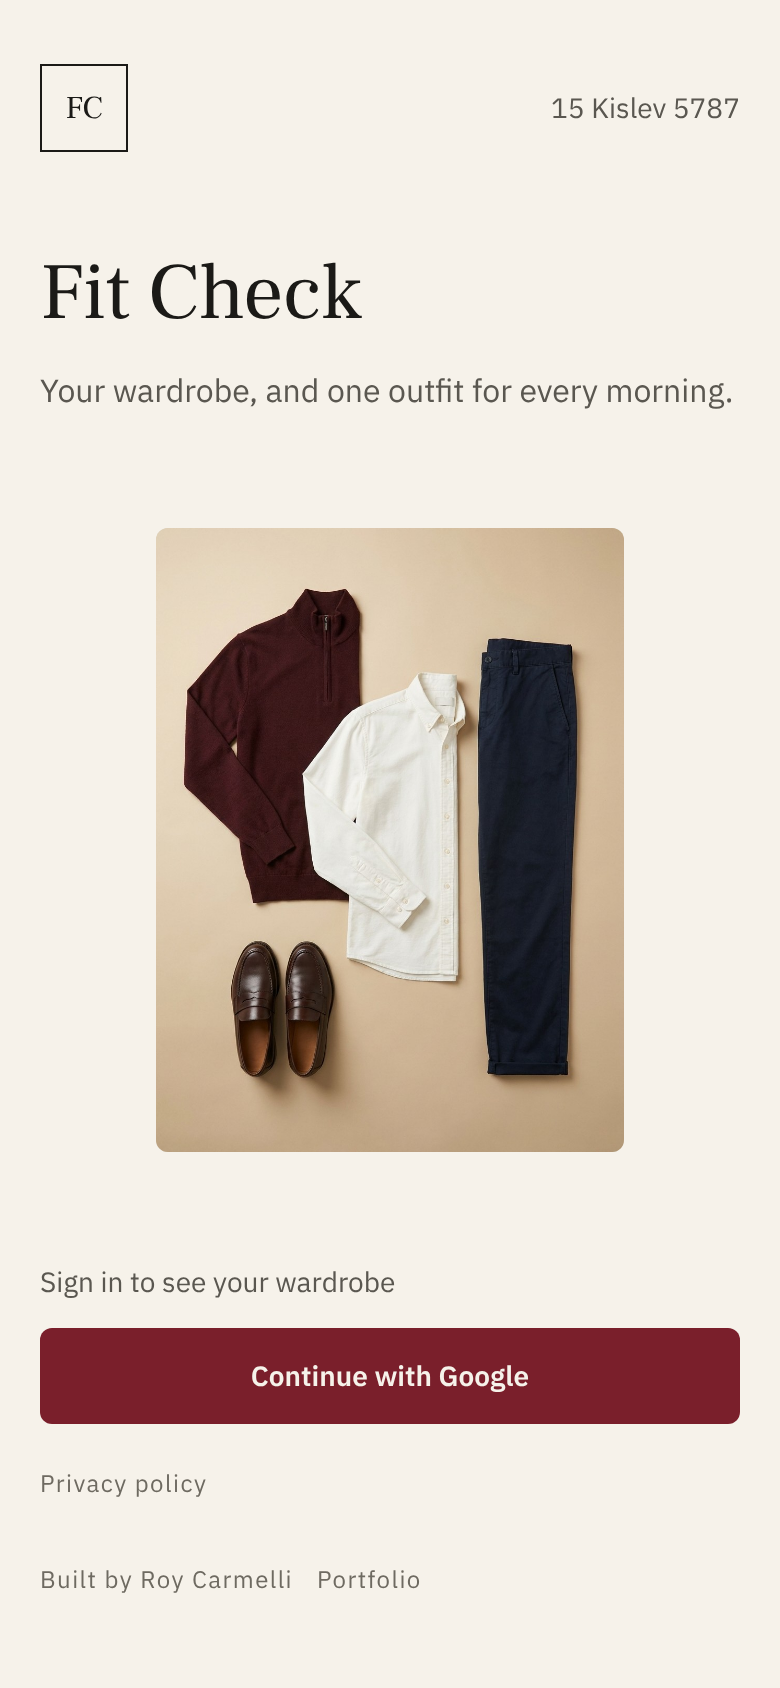
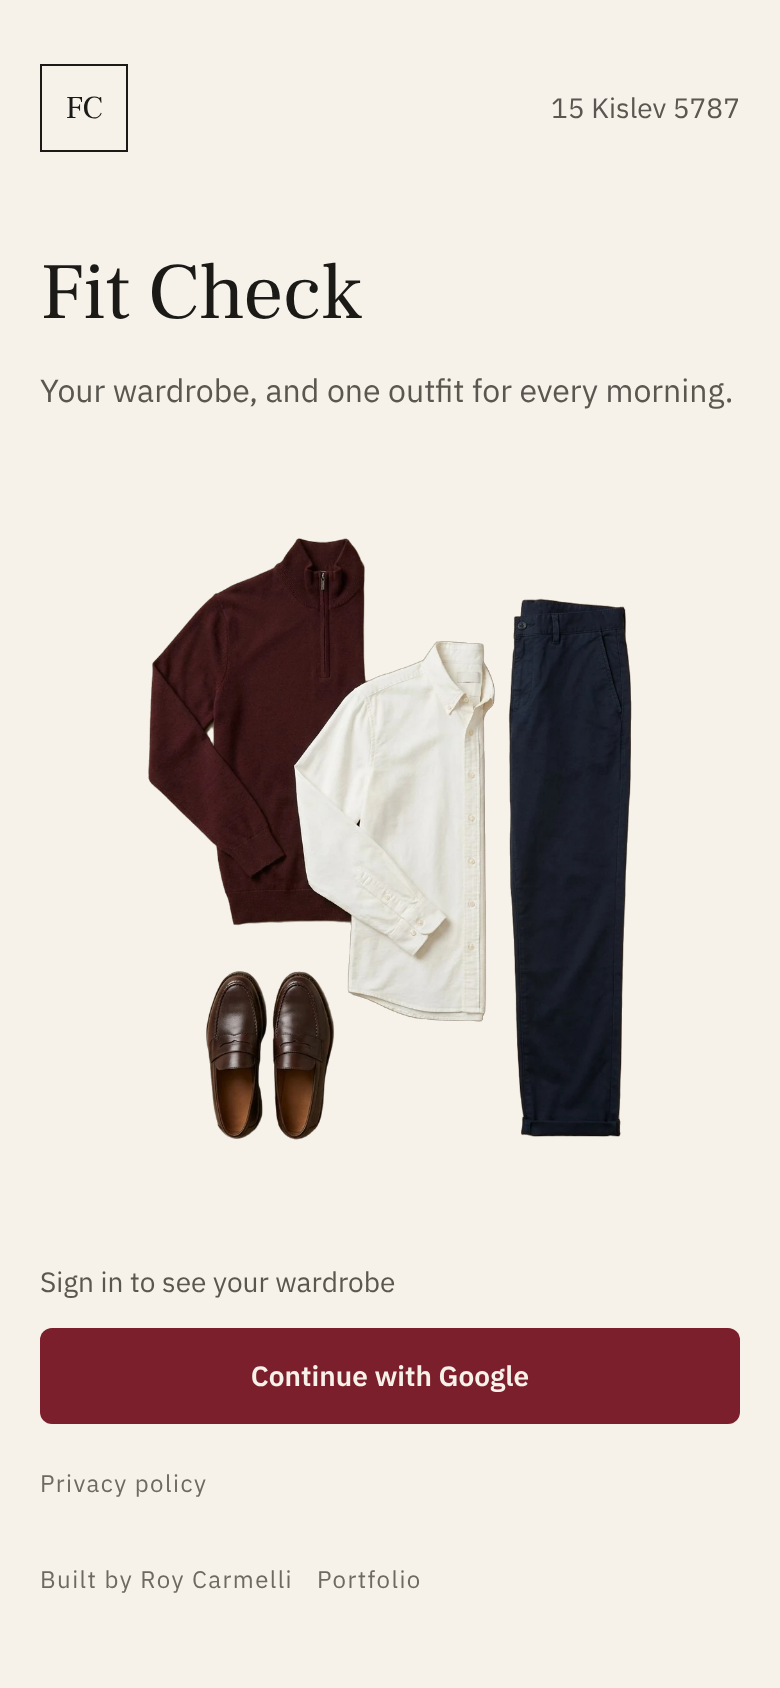
Float the sign-in cover's garments on the page
Roy asked for the cover without its background, so the garments look
like they float on the screen. The Flow photo is cut out locally
(rembg, BiRefNet lite), cropped to the garments and shipped as a 68 KB
WebP; no frame, no ground, no shadow.

Claude-Session: https://claude.ai/code/session_01HdCAW9576yTELi8uVHsf77

Changed region(s): [[0.1846, 0.3081, 0.8308, 0.7085], [0.4923, 0.4621, 0.5231, 0.4929]]

diff --git a/apps/mobile/src/components/brand/CoverPhoto.tsx b/apps/mobile/src/components/brand/CoverPhoto.tsx
@@ -1,10 +1,9 @@
 import { Image } from "expo-image";
 import { useWindowDimensions, View } from "react-native";
-import { colors } from "../../theme/tokens";
-import cover from "../../../assets/cover/sign-in-cover.jpg";
+import cover from "../../../assets/cover/sign-in-cover.webp";
 
-/** Width / height of the photo: Google Flow offers 3:4, not the flat-lay's 4:5, and the photo is shown uncropped. */
-const ASPECT = 3 / 4;
+/** Width / height of the cut-out (786x970, the garments plus 16px of air on every side). */
+const ASPECT = 786 / 970;
 
 /**
  * The cover's height as a share of the window. At 0.37 the Google button stays on screen at 1366x768 and 1280x800 (the
@@ -13,23 +12,21 @@ const ASPECT = 3 / 4;
 const COVER_SHARE = 0.37;
 
 /**
- * The sign-in cover's one object: a still life of a men's outfit generated in Google Flow (Roy, 2026-11-25:
- * "something fake but good-looking"; prompt and settings in design/cover/2026-11-25-sign-in-cover.md). Bundled with
- * the app, so it needs no account and no network call, and there is nothing to fail. Width follows the column and
- * stops where the height cap binds, so the photo is never cropped. Until it decodes, its box shows the tile ground in
- * its exact size, so nothing below moves.
+ * The sign-in cover's one object: a men's outfit laid flat, generated in Google Flow and cut out of its background, so
+ * the garments float on the page itself with no frame and no ground (Roy, 2026-11-25: "something fake but
+ * good-looking", then "with an empty background, floating"). Prompt, settings and the cut-out step:
+ * design/cover/2026-11-25-sign-in-cover.md. Bundled with the app, so it needs no account and no network call, and
+ * there is nothing to fail. Width follows the column and stops where the height cap binds, so the picture is never
+ * cropped; its box keeps that size while it decodes, so nothing below moves.
  */
 export function CoverPhoto() {
   const maxHeight = Math.round(useWindowDimensions().height * COVER_SHARE);
   return (
-    // Decoration: the app name and tagline carry the screen's meaning, so the photo stays out of the accessibility
+    // Decoration: the app name and tagline carry the screen's meaning, so the picture stays out of the accessibility
     // tree (aria-hidden for web, the other two props for iOS and Android).
     <View aria-hidden accessibilityElementsHidden importantForAccessibility="no-hide-descendants" style={{ alignItems: "center" }}>
-      <View
-        className="rounded-md"
-        style={{ width: "100%", maxWidth: maxHeight * ASPECT, aspectRatio: ASPECT, overflow: "hidden", backgroundColor: colors["tile-deep"] }}
-      >
-        <Image source={cover} contentFit="cover" style={{ width: "100%", height: "100%" }} />
+      <View style={{ width: "100%", maxWidth: maxHeight * ASPECT, aspectRatio: ASPECT }}>
+        <Image source={cover} contentFit="contain" style={{ width: "100%", height: "100%" }} />
       </View>
     </View>
   );

diff --git a/apps/mobile/src/types/images.d.ts b/apps/mobile/src/types/images.d.ts
@@ -2,7 +2,7 @@
  * Image files imported by app code. Metro turns the import into an asset reference (a number, React Native's
  * `ImageRequireSource`), which expo-image accepts as `source`. Expo's own types declare no image modules.
  */
-declare module "*.jpg" {
+declare module "*.webp" {
   const source: number;
   export default source;
 }

diff --git a/docs/TASKS.md b/docs/TASKS.md
@@ -122,7 +122,7 @@ Plan and reasons: `docs/REDESIGN_PLAN.md` "Stage 4". Stage 3 merged as PR #24.
 | 4.24 | Web Google sign-in on the app's own domain, the classic flow as fallback | opus | done; Roy signed in with real Google on the preview (2026-11-25), merged (#74); 6 new tests (673 pass), lint and typecheck pass | Why: Google's account chooser named the Supabase project (fgaywkeyqwnelfpmvnmq.supabase.co); the app's name needs brand verification, which cannot include supabase.co. Roy, 2026-11-25: go, without anything breaking. `features/auth/googleDirect.ts`: OpenID Connect redirect (response_type=id_token) back to `/auth/google`, only on origins registered with Google (production, this branch's preview, localhost); state and a 10-minute pending entry in sessionStorage; nonce hashed for Google, raw for Supabase, which checks signature, audience and nonce. `app/auth/google.tsx` (outside the guards): one finish per page load (signing in remounts the stack), the token cleared from the address bar, a waiting Claude connection resumes first; any failure offers the classic sign-in. Native, other previews and the MCP connector are unchanged. Needs from Roy: the redirect URIs on the "Fit Check web" OAuth client. Not done: removing the supabase.co redirect (only after the new flow works in production and the Android app moves off it) |
 | 4.25 | Web app moves to fit-check-il.vercel.app; the first address redirects there | opus | built; lint, typecheck and tests pass; Supabase allows the new address (added 2026-11-25); waits for Roy: the domain on the Vercel project, the redirect URI and authorized domain on Google | Why: Roy, 2026-11-25, chose a nicer address before Google brand verification, which binds to the domain ("fit-check-il"). `googleDirect.ts`: the new origin first, the old one kept until its redirect URI leaves Google; `inviteLink.ts`: links use the new address; `apps/mobile/vercel.json`: a temporary (307) redirect from the old host keeps old links, invites and bookmarks working. After merge: Supabase site URL to the new address (the Claude connector's consent page follows it). Later, with Roy's go: the old redirect URI off Google |
 | 4.26 | Ready for Google brand verification: title, description and Search Console tag in every web page; a 120 px logo | opus | built; lint, typecheck and tests pass (4 new); a local web export has the tags on all 27 pages and the app renders as before (sign-in, he and en); the Search Console value is the property's tag (Roy added the property 2026-11-25) | Why: Roy, 2026-11-25, wants Google's account chooser to show "Fit Check" and its logo, which needs brand verification on the new address (4.25). The pre-rendered HTML was empty (no title, no text), which is what Google reads. `apps/mobile/scripts/site-head.mjs` runs after `expo export` (Vercel build command) and writes the tags after `<head>`; it fails the build on a page without `<head>` or an empty export. Not a custom `+html.tsx`: it stopped the export from linking the app's scripts (blank page); not expo-router `Head`: it renders only in a focused screen, which the pre-render never reaches. Logo: the app icon at 120 px, served at `/brand/logo-120.png` for the upload. Then Roy: Verify in Search Console, upload the logo, home page and privacy URLs on the new address, submit for brand verification |
-| 4.27 | Sign-in cover: a generated still life instead of the drawing | opus | built; lint, typecheck and tests pass; screenshots of a local web export (390 he/en, 1280 he): the photo loads, uncropped, and the Google button stays on screen | Why: Roy, 2026-11-25: something "fake but good-looking" before signing in, made in Google Flow (0 credits); he let me choose among 4 variations. `components/brand/CoverPhoto.tsx` shows `assets/cover/sign-in-cover.jpg` at 3:4, capped at 37% of the window; `StillLife` (the drawing) deleted, it had no other use. Replaces the closed #77 (Roy's real favourite look from a public `showcase` function), which Roy dropped for this |
+| 4.27 | Sign-in cover: a generated still life instead of the drawing | opus | built; lint, typecheck and tests pass; screenshots of a local web export (390 he/en, 1280 he): the photo loads, uncropped, and the Google button stays on screen | Why: Roy, 2026-11-25: something "fake but good-looking" before signing in, made in Google Flow (0 credits); he let me choose among 4 variations. `components/brand/CoverPhoto.tsx` shows `assets/cover/sign-in-cover.webp`, the photo cut out of its background so the garments float on the page (Roy: "with an empty background"; rembg locally, free), capped at 37% of the window; `StillLife` (the drawing) deleted, it had no other use. Replaces the closed #77 (Roy's real favourite look from a public `showcase` function), which Roy dropped for this |
 
 
 ## Later: the algorithm's judgement (Roy, 2026-11-19)

diff --git a/docs/DESIGN.md b/docs/DESIGN.md
@@ -164,7 +164,7 @@ spring        damping 36, stiffness 320, mass 1   sheets ומחוות בלבד; 
 
 ### התחברות
 
-שער של מגזין (סעיף 8, Kinfolk): השם בסריף, שורת התיאור, אובייקט אחד, והכפתור של Google בתחתית. מאז 25.11.2026 האובייקט הוא תצלום ולא ציור (רועי: "משהו מזויף אבל שייראה טוב"): flat-lay של לוק גברי, סוודר בורדו, חולצת אוקספורד לבנה, צ'ינו כחול ומוקסינים חומים, שנוצר ב-Google Flow (הפרומפט וההגדרות: `design/cover/2026-11-25-sign-in-cover.md`). הוא חלק מהאפליקציה, כך שאין לו תלות ברשת ואין לו מצב כישלון. רכיב `CoverPhoto`: יחס 3:4 בלי חיתוך, רדיוס md, בגובה של עד 37% מהחלון, כדי שהכפתור יישאר במסך גם ב-1280x800 (בטלפון התקרה לא נוגעת), ועד שהתמונה נטענת המסגרת שלה בגודלה המדויק ובצבע `tile-deep`. הצבע של הרקע בתמונה חם יותר מהאריחים, וזה מכוון: זה תצלום ממוסגר, לא משטח של האפליקציה. התמונה היא קישוט: היא מחוץ לעץ הנגישות, והשם והתיאור נושאים את המשמעות.
+שער של מגזין (סעיף 8, Kinfolk): השם בסריף, שורת התיאור, אובייקט אחד, והכפתור של Google בתחתית. מאז 25.11.2026 האובייקט הוא תצלום ולא ציור (רועי: "משהו מזויף אבל שייראה טוב"): flat-lay של לוק גברי, סוודר בורדו, חולצת אוקספורד לבנה, צ'ינו כחול ומוקסינים חומים, שנוצר ב-Google Flow (הפרומפט וההגדרות: `design/cover/2026-11-25-sign-in-cover.md`). הוא חלק מהאפליקציה, כך שאין לו תלות ברשת ואין לו מצב כישלון. הרקע של התמונה הוסר (רועי: "עם רקע ריק שייראה מרחף במסך"), כך שהבגדים מונחים על המסך עצמו, בלי מסגרת, בלי משטח ובלי צל (סעיף 1). רכיב `CoverPhoto`: בלי חיתוך, בגובה של עד 37% מהחלון, כדי שהכפתור יישאר במסך גם ב-1280x800 (בטלפון התקרה לא נוגעת), והמקום שלה שמור בגודלו המדויק עד שהיא נטענת. התמונה היא קישוט: היא מחוץ לעץ הנגישות, והשם והתיאור נושאים את המשמעות.
 
 ### שלב 2: תוספות (19.11.2026)
 

diff --git a/design/cover/2026-11-25-sign-in-cover.md b/design/cover/2026-11-25-sign-in-cover.md
@@ -1,14 +1,16 @@
 # Sign-in cover photo (2026-11-25)
 
-`apps/mobile/assets/cover/sign-in-cover.jpg`, shown by `CoverPhoto` on the sign-in screen (DESIGN.md §3 "התחברות").
+`apps/mobile/assets/cover/sign-in-cover.webp`, shown by `CoverPhoto` on the sign-in screen (DESIGN.md §3 "התחברות").
 
 - Why: Roy wanted something "fake but good-looking" on the screen before signing in, instead of the drawn garments.
 - Made in Google Flow, image mode, Nano Banana Pro, 3:4 portrait (Flow offers no 4:5), 4 variations, 0 credits.
   Variation 3 of 4, chosen for the most air around every garment. 896x1200, downloaded at original size.
-- Not retouched: the background is warmer than `tile-deep` and darkens slightly at the corners; changing it would
-  change the garments too.
+- Then cut out of its background (Roy: "with an empty background, so it floats on the screen"): locally with rembg
+  2.0.88 and the `birefnet-general-lite` model (free, nothing uploaded), alpha below 24 set to 0 to drop the faint
+  vignette left at the corners, cropped to the garments plus 16px, saved as WebP quality 90: 786x970, 68 KB.
 
-To make another one, use the same prompt and settings, then replace the file (same name, 3:4).
+To make another one: the same prompt and settings, the same cut-out, then replace the file and `ASPECT` in
+`CoverPhoto.tsx`.
 
 ## Prompt
 

diff --git a/docs/CHANGELOG.md b/docs/CHANGELOG.md
@@ -3,7 +3,7 @@
 ## 2026-11-25 (Sign-in cover: a generated photo)
 
 - Why: Roy wanted something "fake but good-looking" on the screen before signing in, instead of the drawn garments.
-- A flat-lay photo made in Google Flow (burgundy quarter-zip, white Oxford, navy chinos, brown loafers), bundled with the app: no network, nothing to fail. Shown at 3:4 uncropped, at most 37% of the window high, so the Google button stays on screen on a laptop.
+- A flat-lay photo made in Google Flow (burgundy quarter-zip, white Oxford, navy chinos, brown loafers), cut out of its background so the garments float on the page, bundled with the app: no network, nothing to fail. At most 37% of the window high, so the Google button stays on screen on a laptop.
 - The drawing (`StillLife`) is gone. Prompt and settings: `design/cover/2026-11-25-sign-in-cover.md`.
 - Look at: `design/screens/2026-11-25-sign-in-cover-*`.
 
